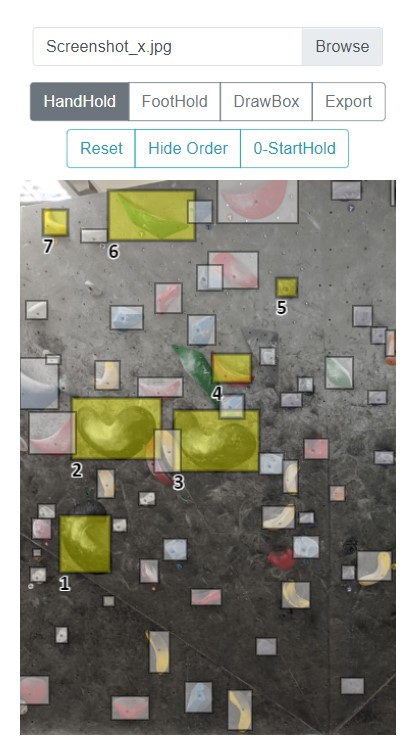
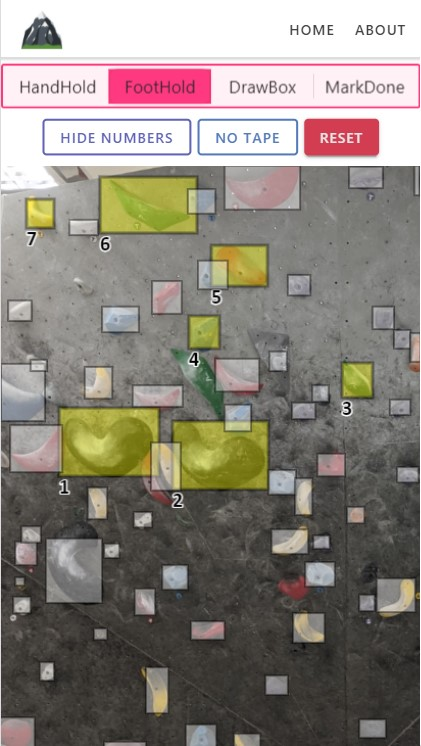
feat: Updated screenshots in About page

diff --git a/ionic_user_interface/src/views/About.vue b/ionic_user_interface/src/views/About.vue
@@ -83,8 +83,8 @@ export default defineComponent({
 #container {
   text-align: center;
   position: absolute;
-  left: 0;
-  right: 0;
+  left: 2%;
+  right: 2%;
   z-index: -1;
   padding-top: 30px;
 }
